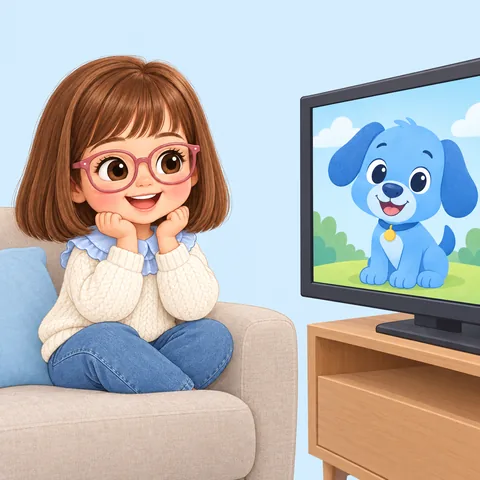
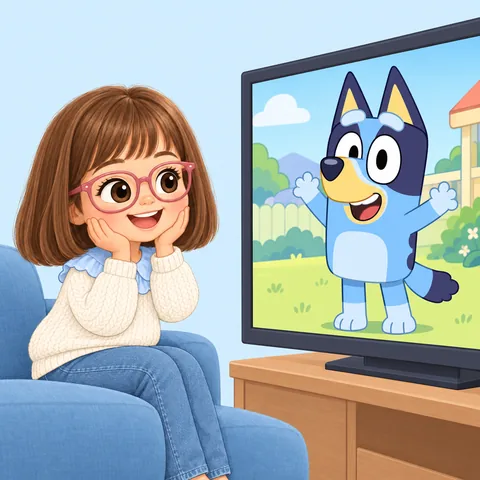
Bluey caricature, photo swap for any button

diff --git a/app.js b/app.js
@@ -42,10 +42,12 @@
   var store = null;
   try { store = window.localStorage; store.setItem('__t', '1'); store.removeItem('__t'); } catch (e) { store = null; }
 
-  var defaults = { size: 'medium', rate: 1, chime: false, words: true, voice: 'clip', hidden: {}, log: [], logDay: '' };
+  var defaults = { size: 'medium', rate: 1, chime: false, words: true, voice: 'clip', hidden: {}, custom: {}, log: [], logDay: '' };
   var S = Object.assign({}, defaults);
   try { if (store) Object.assign(S, JSON.parse(store.getItem(KEY) || '{}')); } catch (e) {}
-  function save() { try { if (store) store.setItem(KEY, JSON.stringify(S)); } catch (e) {} }
+  if (!S.custom) S.custom = {};
+  function save() { try { if (store) store.setItem(KEY, JSON.stringify(S)); return true; } catch (e) { return false; } }
+  function pic(k) { return S.custom[k] || ('img/' + k + '.webp'); }
 
   function today() { var d = new Date(); return d.getFullYear() + '-' + (d.getMonth() + 1) + '-' + d.getDate(); }
   if (S.logDay !== today()) { S.log = []; S.logDay = today(); save(); }
@@ -127,7 +129,7 @@
         b.className = 'tile c-' + g.id;
         b.dataset.key = it[0];
         b.setAttribute('aria-label', it[2]);
-        b.innerHTML = '<img src="img/' + it[0] + '.webp" alt="" width="480" height="480"><span class="lbl">' + it[1] + '</span>';
+        b.innerHTML = '<img src="' + pic(it[0]) + '" alt="" width="480" height="480"><span class="lbl">' + it[1] + '</span>';
         grid.appendChild(b);
       });
     });
@@ -157,7 +159,7 @@
   function showSaid(item) {
     lastItem = item;
     saidBtn.classList.remove('idle');
-    saidImg.src = 'img/' + item.key + '.webp'; saidImg.hidden = false; saidAgain.hidden = false;
+    saidImg.src = pic(item.key); saidImg.hidden = false; saidAgain.hidden = false;
     saidText.textContent = item.say;
     saidBtn.classList.remove('pulse'); void saidBtn.offsetWidth; saidBtn.classList.add('pulse');
   }
@@ -186,7 +188,7 @@
     $('logEmpty').hidden = todays.length > 0;
     todays.forEach(function (x) {
       var li = document.createElement('li');
-      li.innerHTML = '<img src="img/' + x.k + '.webp" alt=""><span>' + ITEMS[x.k].say + '</span><time>' + fmtTime(x.t) + '</time>';
+      li.innerHTML = '<img src="' + pic(x.k) + '" alt=""><span>' + ITEMS[x.k].say + '</span><time>' + fmtTime(x.t) + '</time>';
       log.appendChild(li);
     });
     Array.prototype.forEach.call(document.querySelectorAll('#sizeSeg button'), function (b) { b.setAttribute('aria-checked', b.dataset.size === S.size ? 'true' : 'false'); });
@@ -194,9 +196,12 @@
     fillVoices();
     var pl = $('pickList'); pl.innerHTML = '';
     GROUPS.forEach(function (g) { g.items.forEach(function (it) {
-      var l = document.createElement('label'); l.className = 'pick';
-      l.innerHTML = '<img src="img/' + it[0] + '.webp" alt=""><span>' + it[1] + '</span><input type="checkbox" data-key="' + it[0] + '"' + (S.hidden[it[0]] ? '' : ' checked') + '>';
-      pl.appendChild(l);
+      var row = document.createElement('div'); row.className = 'pick';
+      row.innerHTML = '<img src="' + pic(it[0]) + '" alt=""><span>' + it[1] + '</span>' +
+        '<label class="pick-photo">Photo<input type="file" accept="image/*" data-photo="' + it[0] + '" hidden></label>' +
+        (S.custom[it[0]] ? '<button class="pick-reset" data-reset="' + it[0] + '" aria-label="Use the cartoon again">Cartoon</button>' : '') +
+        '<input type="checkbox" aria-label="Show ' + it[1] + '" data-key="' + it[0] + '"' + (S.hidden[it[0]] ? '' : ' checked') + '>';
+      pl.appendChild(row);
     }); });
   }
   function fillVoices() {
@@ -225,7 +230,35 @@
   $('chime').addEventListener('change', function () { S.chime = this.checked; save(); });
   $('words').addEventListener('change', function () { S.words = this.checked; save(); });
   $('voiceSel').addEventListener('change', function () { S.voice = this.value; save(); speak(ITEMS.happy); });
+  function squarePhoto(file, cb) {
+    var url = URL.createObjectURL(file);
+    var im = new Image();
+    im.onload = function () {
+      var side = Math.min(im.naturalWidth, im.naturalHeight);
+      var sx = (im.naturalWidth - side) / 2, sy = (im.naturalHeight - side) / 2;
+      var c = document.createElement('canvas'); c.width = c.height = 480;
+      c.getContext('2d').drawImage(im, sx, sy, side, side, 0, 0, 480, 480);
+      URL.revokeObjectURL(url);
+      try { cb(c.toDataURL('image/jpeg', 0.82)); } catch (err) { cb(null); }
+    };
+    im.onerror = function () { URL.revokeObjectURL(url); cb(null); };
+    im.src = url;
+  }
+  $('pickList').addEventListener('click', function (e) {
+    var r = e.target.closest('[data-reset]'); if (!r) return;
+    delete S.custom[r.dataset.reset]; save(); fillGrown();
+  });
   $('pickList').addEventListener('change', function (e) {
+    var pk = e.target.dataset.photo;
+    if (pk && e.target.files && e.target.files[0]) {
+      squarePhoto(e.target.files[0], function (data) {
+        if (!data) { alert('That picture could not be used. Please try another one.'); return; }
+        var prev = S.custom[pk]; S.custom[pk] = data;
+        if (!save() && store) { if (prev) S.custom[pk] = prev; else delete S.custom[pk]; alert('This device is out of room for more photos. Try switching one back to the cartoon first.'); }
+        fillGrown();
+      });
+      return;
+    }
     var k = e.target.dataset.key; if (!k) return;
     if (e.target.checked) delete S.hidden[k]; else S.hidden[k] = true;
     save();

diff --git a/style.css b/style.css
@@ -87,10 +87,12 @@ img{-webkit-user-drag:none}
 .log img{width:34px;height:34px;border-radius:8px}
 .log time{margin-left:auto;color:var(--ink-soft);font-size:14px;font-variant-numeric:tabular-nums}
 .btn-soft{margin-top:8px;background:var(--bg);border-radius:12px;padding:9px 14px;font-weight:800;color:var(--ink-soft)}
-.pick-list{display:grid;grid-template-columns:repeat(auto-fill,minmax(150px,1fr));gap:8px}
-.pick{display:flex;align-items:center;gap:8px;padding:6px 8px;border-radius:14px;background:var(--bg);font-weight:800;font-size:14px;cursor:pointer}
-.pick img{width:38px;height:38px;border-radius:9px}
-.pick span{flex:1}
+.pick-list{display:grid;grid-template-columns:repeat(auto-fill,minmax(260px,1fr));gap:8px}
+.pick{display:flex;align-items:center;gap:8px;padding:6px 8px;border-radius:14px;background:var(--bg);font-weight:800;font-size:14px}
+.pick img{width:42px;height:42px;border-radius:9px;object-fit:cover}
+.pick-photo,.pick-reset{flex:none;background:#fff;border-radius:10px;padding:6px 8px;font-weight:800;font-size:13px;color:var(--accent);cursor:pointer;box-shadow:0 1px 0 rgba(46,42,59,.1)}
+.pick-reset{color:var(--ink-soft)}
+.pick span{flex:1;min-width:0;line-height:1.15}
 .pick input{width:22px;height:22px;accent-color:var(--people);flex:none}
 .tips ul{margin:0;padding-left:20px;line-height:1.5;color:var(--ink)}
 .tips li{margin-bottom:6px}

diff --git a/index.html b/index.html
@@ -74,8 +74,8 @@
     </section>
 
     <section class="g-sec">
-      <h3>Pictures to show</h3>
-      <p class="muted">Turn off any pictures Isla doesn’t need yet. Fewer choices can be easier when she’s starting out.</p>
+      <h3>Pictures</h3>
+      <p class="muted">Tap <b>Photo</b> to use your own picture instead of the cartoon, such as Bluey or Mickey on your TV, or a real photo of Mama, Papaw, or Bryson. Real photos are often the easiest for her to recognize. Tap <b>Cartoon</b> to switch back. Uncheck any picture Isla doesn’t need yet; fewer choices can be easier when she’s starting out.</p>
       <div id="pickList" class="pick-list"></div>
     </section>
 
